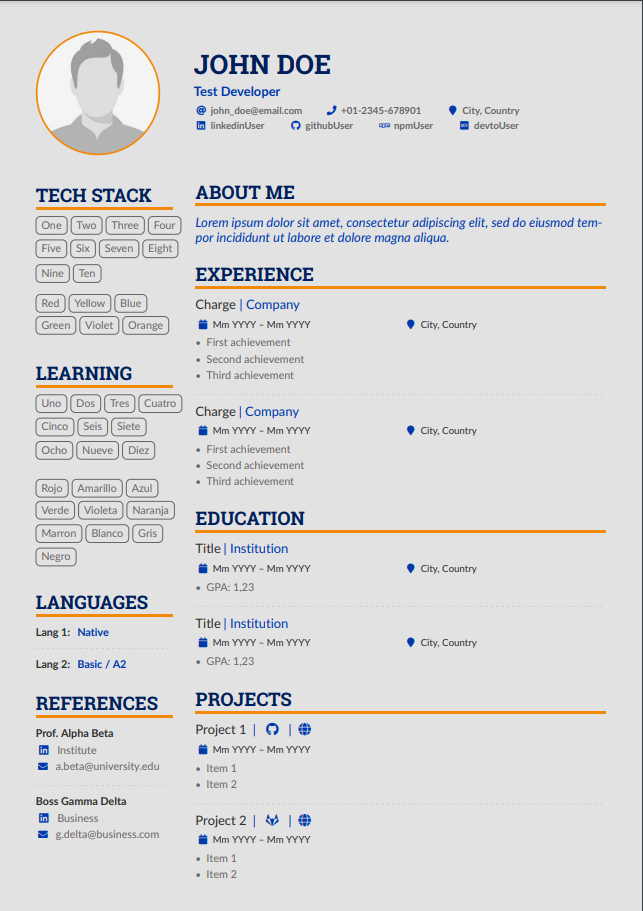
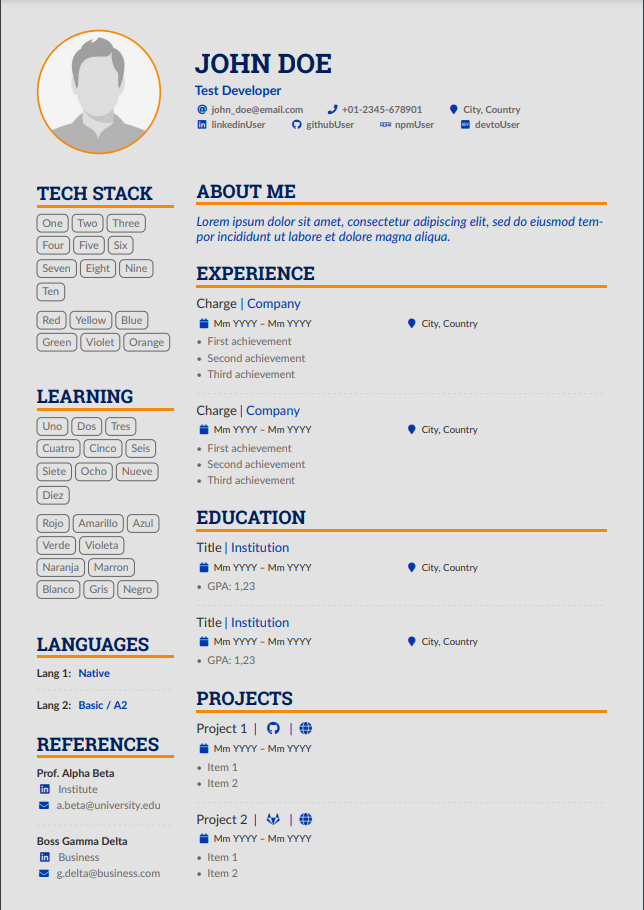
v1.6.5c. cvtags component added for tag list. Tag list overlapping with issue solved

diff --git a/main.tex b/main.tex
@@ -1,7 +1,7 @@
 %%%%%%%%%%%%%%%%%
 % This is an sample CV template created using altacv.cls
 % (v1.3, 10 May 2020) written by LianTze Lim (liantze@gmail.com). Now compiles with pdfLaTeX, XeLaTeX and LuaLaTeX.
-% (v1.6.5b, 27 Jun 2023) forked by Nicolás Omar González Passerino (nicolas.passerino@gmail.com)
+% (v1.6.5c, 27 Jun 2023) forked by Nicolás Omar González Passerino (nicolas.passerino@gmail.com)
 %
 %% It may be distributed and/or modified under the
 %% conditions of the LaTeX Project Public License, either version 1.3
@@ -33,6 +33,9 @@
 %% AltaCV uses the fontawesome5 and academicons fonts
 %% and packages.
 %% See http://texdoc.net/pkg/fontawesome5 and http://texdoc.net/pkg/academicons for full list of symbols. You MUST compile with XeLaTeX or LuaLaTeX if you want to use academicons.
+
+%% Fork v1.6.5c: Overwriting sloppy environment to ignore any spaces and be used to solve overlapping cvtags
+\newenvironment{sloppypar*}{\sloppy\ignorespaces}{\par}
 
 % Change the page layout if you need to
 \geometry{left=1.2cm,right=1.2cm,top=1cm,bottom=1cm,columnsep=0.75cm}
@@ -135,50 +138,23 @@
     \begin{paracol}{2}
         % ----- TECH STACK -----
         \cvsection{TECH STACK}
-            \cvtag{One}
-            \cvtag{Two}
-            \cvtag{Three}
-            \cvtag{Four}
-            \cvtag{Five}
-            \cvtag{Six}
-            \cvtag{Seven}
-            \cvtag{Eight}
-            \cvtag{Nine}
-            \cvtag{Ten}
-            \medskip
-            
-            \cvtag{Red}
-            \cvtag{Yellow}
-            \cvtag{Blue}
-            \cvtag{Green}
-            \cvtag{Violet}
-            \cvtag{Orange}
+            %% Fork v1.6.5c: The sloppypar* environment is used to avoid tags overlapping with section width
+            \begin{sloppypar*}
+                \cvtags{One, Two, Three, Four, Five, Six, Seven, Eight, Nine, Ten}
+                \medskip
+
+                \cvtags{Red, Yellow, Blue, Green, Violet, Orange}
+            \end{sloppypar*}
         % ----- TECH STACK -----
         
         % ----- LEARNING -----
         \cvsection{Learning}
-            \cvtag{Uno}
-            \cvtag{Dos}
-            \cvtag{Tres}
-            \cvtag{Cuatro}
-            \cvtag{Cinco}
-            \cvtag{Seis}
-            \cvtag{Siete}
-            \cvtag{Ocho}
-            \cvtag{Nueve}
-            \cvtag{Diez}
-            \medskip
-            
-            \cvtag{Rojo}
-            \cvtag{Amarillo}
-            \cvtag{Azul}
-            \cvtag{Verde}
-            \cvtag{Violeta}
-            \cvtag{Naranja}
-            \cvtag{Marron}
-            \cvtag{Blanco}
-            \cvtag{Gris}
-            \cvtag{Negro}
+            \begin{sloppypar*}
+                \cvtags{Uno, Dos, Tres, Cuatro, Cinco, Seis, Siete, Ocho, Nueve, Diez}
+                \medskip
+
+                \cvtags{Rojo, Amarillo, Azul, Verde, Violeta, Naranja, Marron, Blanco, Gris, Negro}
+            \end{sloppypar*}
         % ----- LEARNING -----
         
         % ----- LANGUAGES -----

diff --git a/README.md b/README.md
@@ -2,7 +2,7 @@
 
 v1.6.5 (3 Nov 2022), by LianTze Lim (liantze@gmail.com)
 
-v1.6.5b (27 Jun 2023), by Nicolás Omar González Passerino (nicolas.passerino@gmail.com)
+v1.6.5c (27 Jun 2023), by Nicolás Omar González Passerino (nicolas.passerino@gmail.com)
 
 ## Original Sample
 
@@ -15,8 +15,12 @@ v1.6.5b (27 Jun 2023), by Nicolás Omar González Passerino (nicolas.passerino@g
 
 ## Forked Sample
 
+### v1.6.5c:
+* **Added:** (`sloppypar`) environment added and improved to solve `\cvtag` list overlapping with `\cvsection` width.
+* **Added:** (`\cvtags`) tag created to parse several skills in tag/pill way in a less verbose way than before.
+
 ### v1.6.5b:
-* **Updated:** (`\cvref`) tag rebuilt from original version with optional display for LinkedIn and Mail links
+* **Updated:** (`\cvref`) tag rebuilt from original version with optional display for *LinkedIn* and *Email* links.
 
 ### v1.6.5a and before:
 * **Added:** Contact options added for dev.to, medium and npm accounts.
